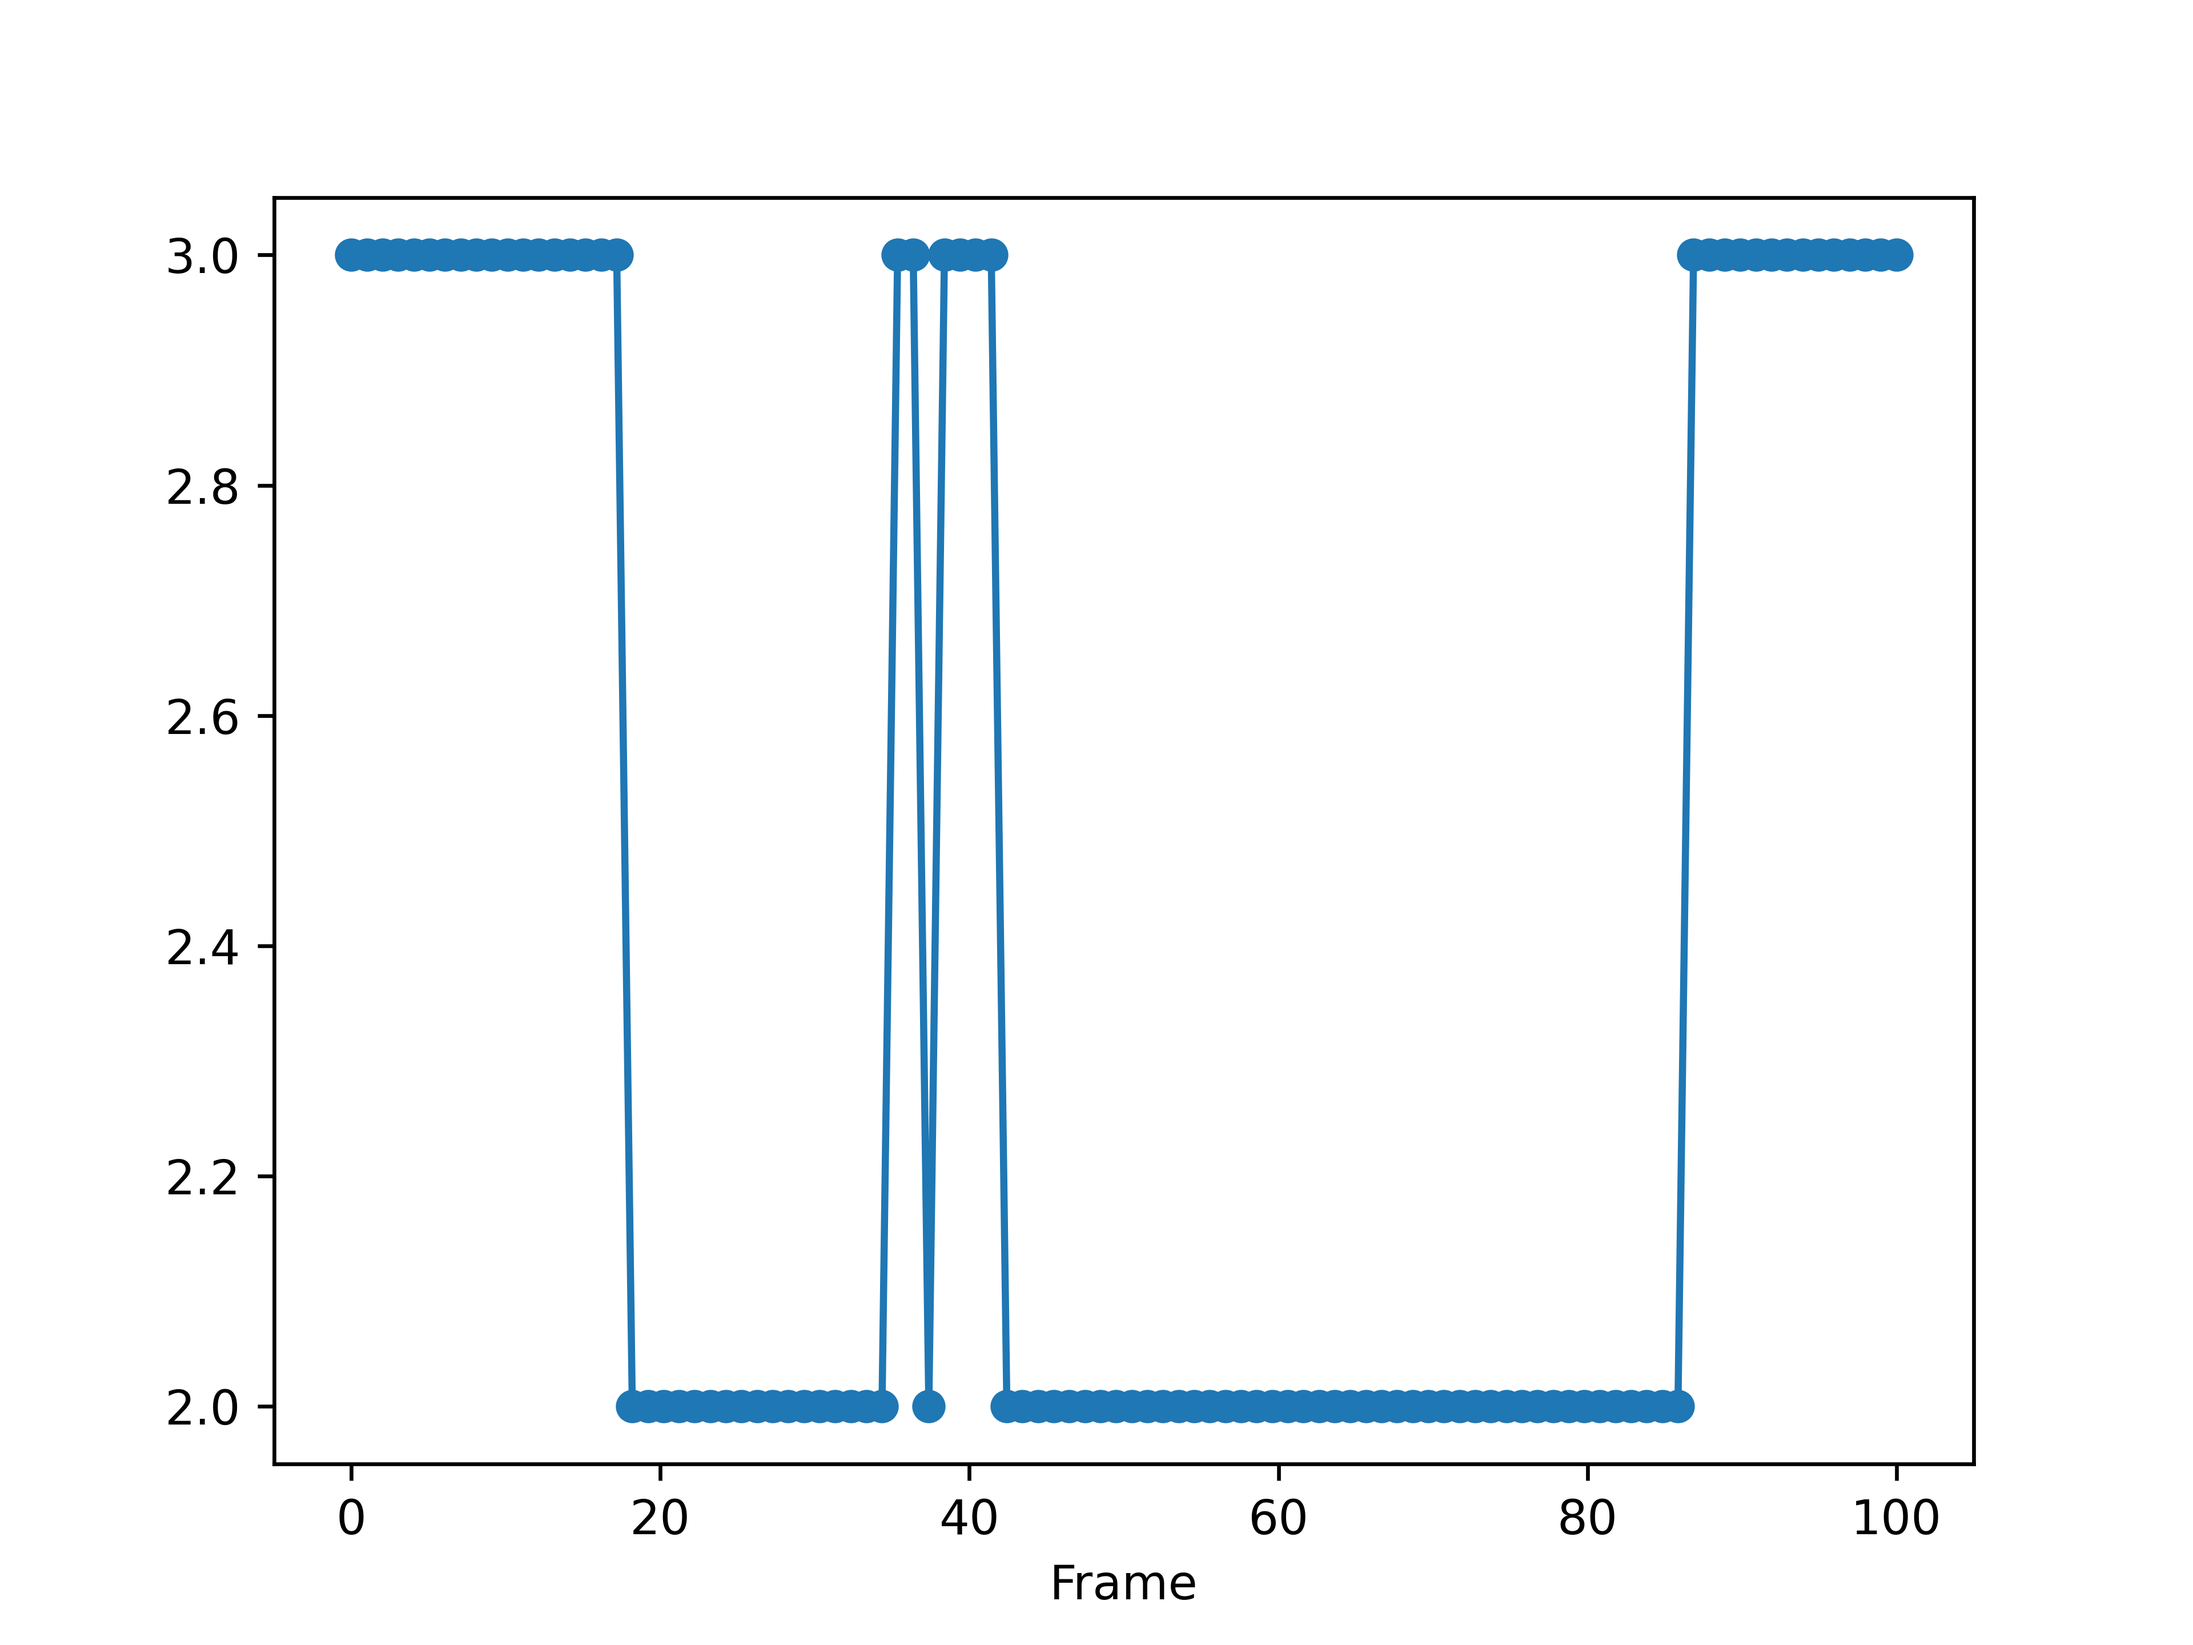
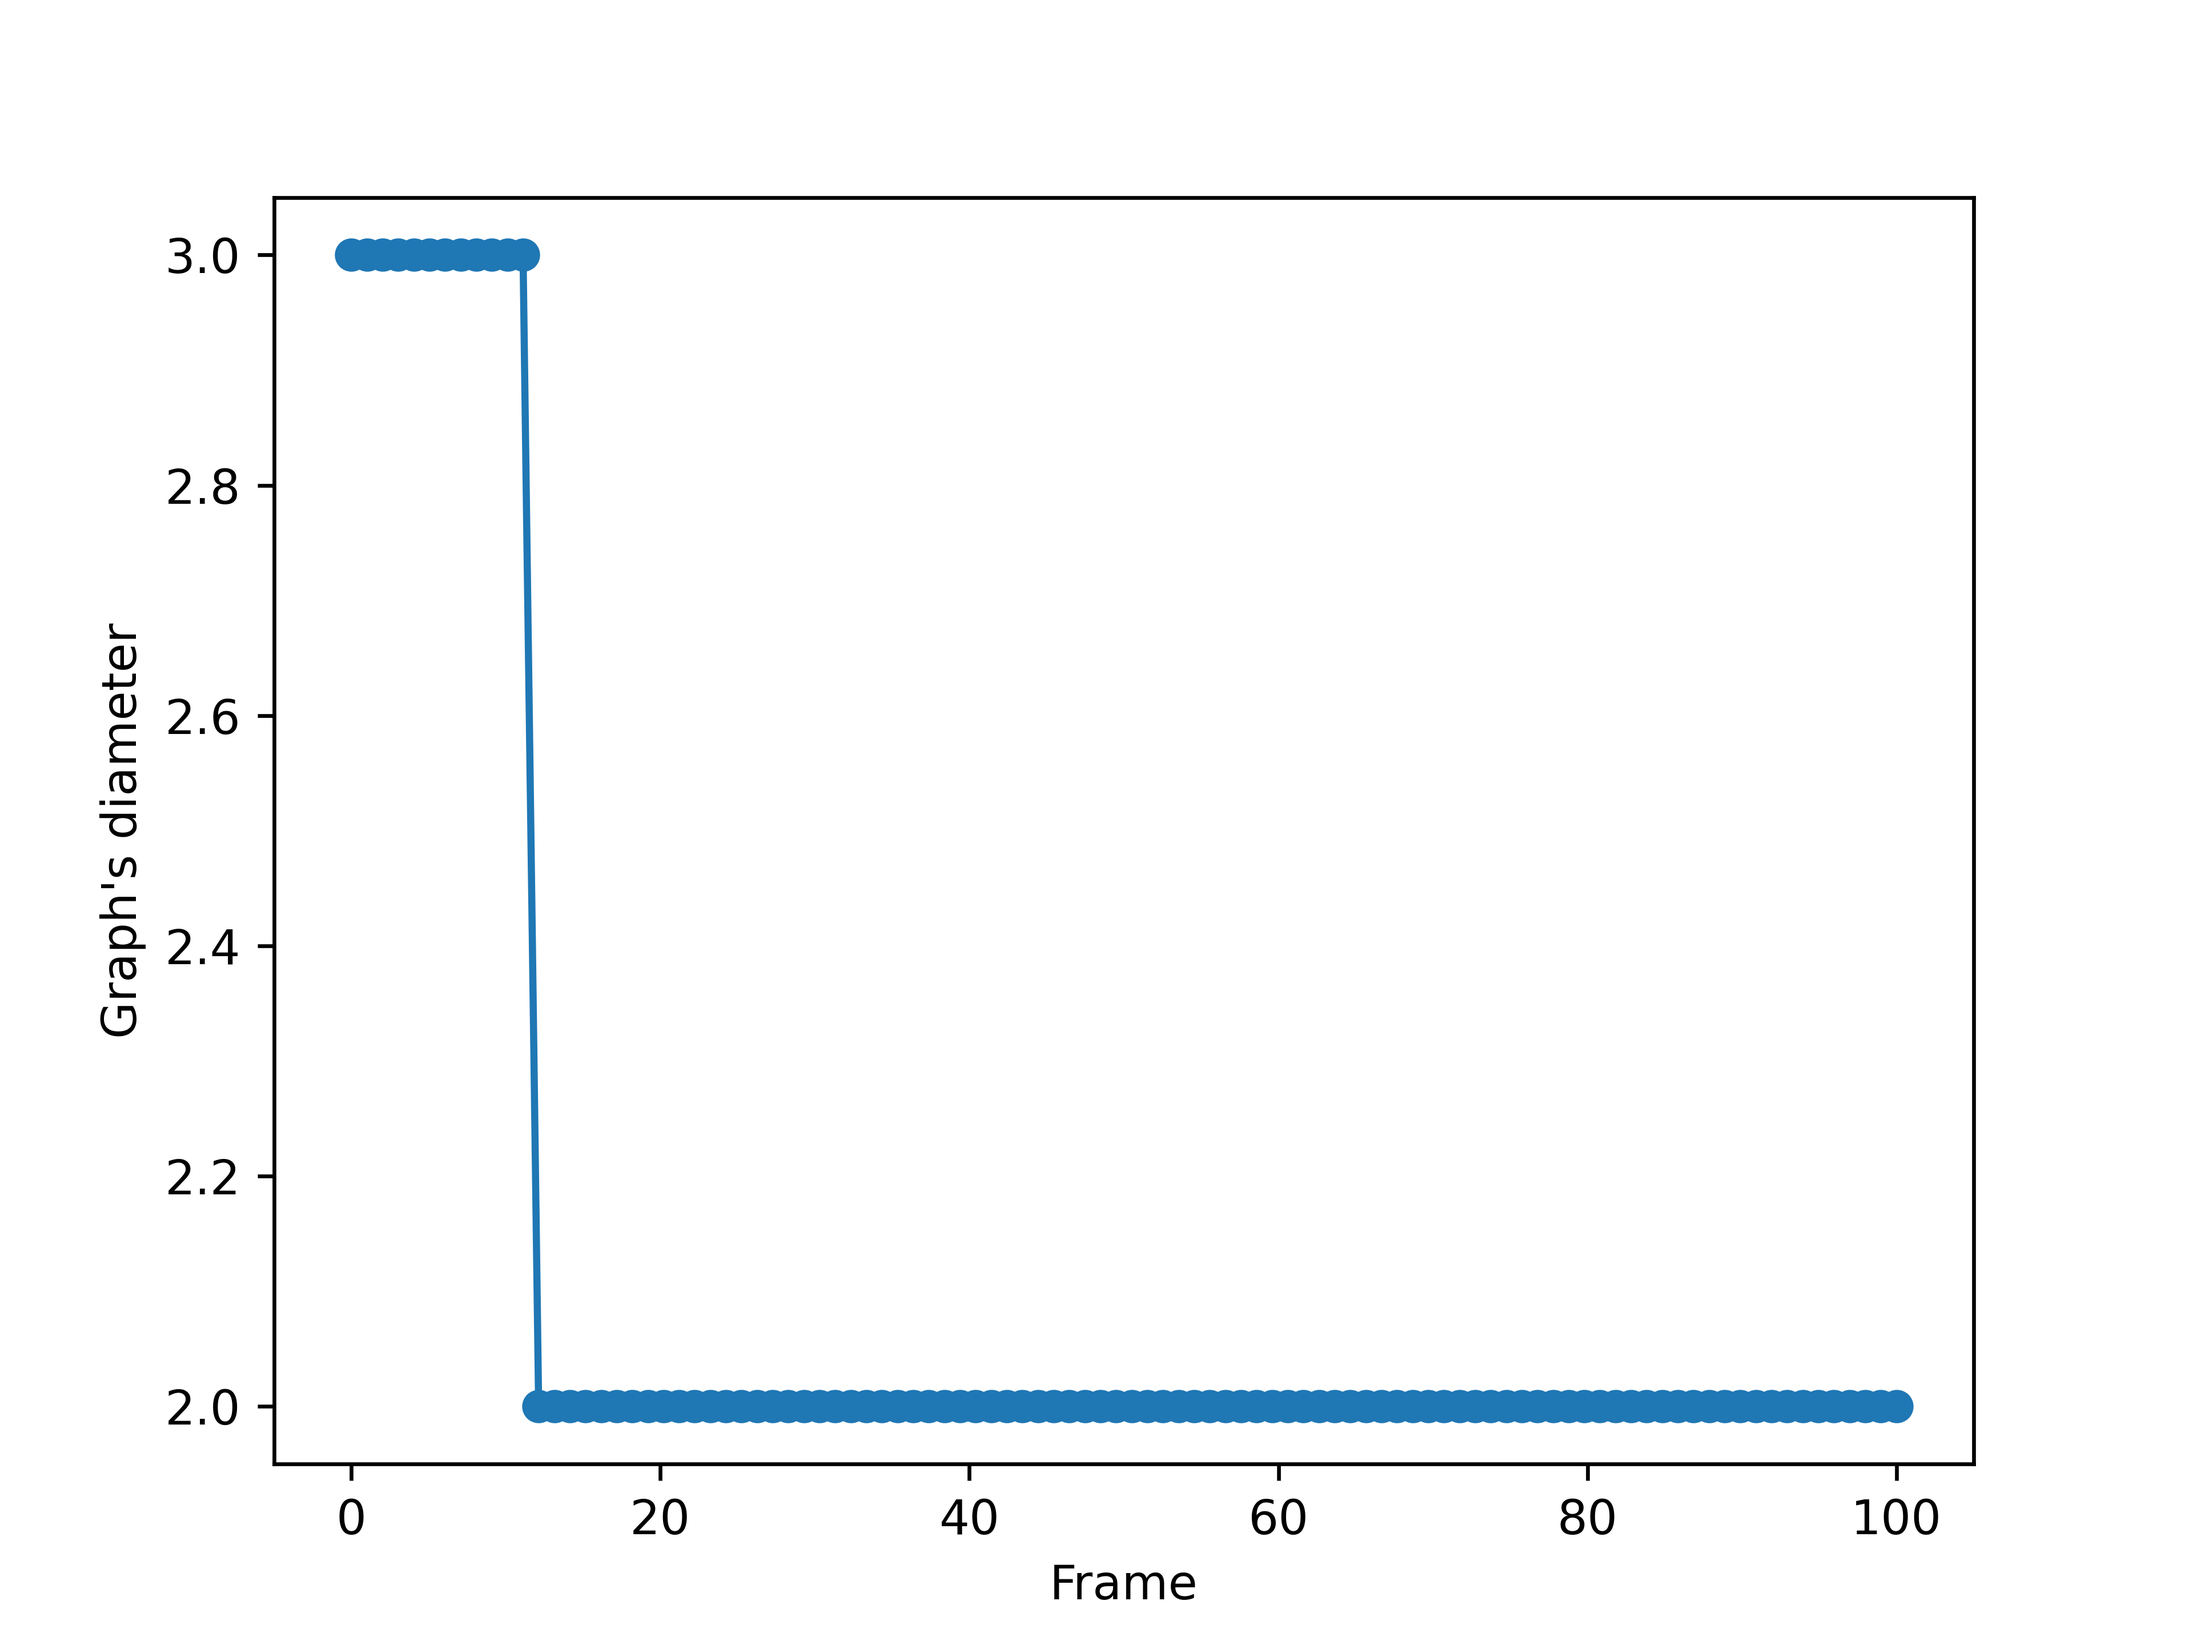
Random seed fixed in example.

diff --git a/docs/source/example_analysis.rst b/docs/source/example_analysis.rst
@@ -1,4 +1,4 @@
-Cmoputing observables on a graph time-series
+Computing observables on a graph time-series
 ============================================
 
 This recipe explains how to compute observables from a
@@ -17,6 +17,7 @@ some update function.
     mat_0 = random_adj_matrix_ba(
         n=n_nodes,  # Number of nodes
         m=2,        # Barabasi-Albert graph parameter
+        seed=42,
     )
 
     def update_ad_matrix(
@@ -66,16 +67,19 @@ These quantities can be easily plotted using the `plotting` module:
 
     output_path = Path("source/_static")
     plot_global_obs(
-        Path(output_path / "Fig1_1.png"),
-        average_node_degree,
+        fig_path=Path(output_path / "Fig1_1.png"),
+        time_series=average_node_degree,
+        y_label="Average degree",
     )
     plot_global_obs(
-        Path(output_path / "Fig1_2.png"),
-        average_node_cl_coeff,
+        fig_path=Path(output_path / "Fig1_2.png"),
+        time_series=average_node_cl_coeff,
+        y_label="Average clustering coeff.",
     )
     plot_global_obs(
-        Path(output_path / "Fig1_3.png"),
-        graph_diameter,
+        fig_path=Path(output_path / "Fig1_3.png"),
+        time_series=graph_diameter,
+        y_label="Graph's diameter",
     )
 
 .. testcode:: recipe1-test
